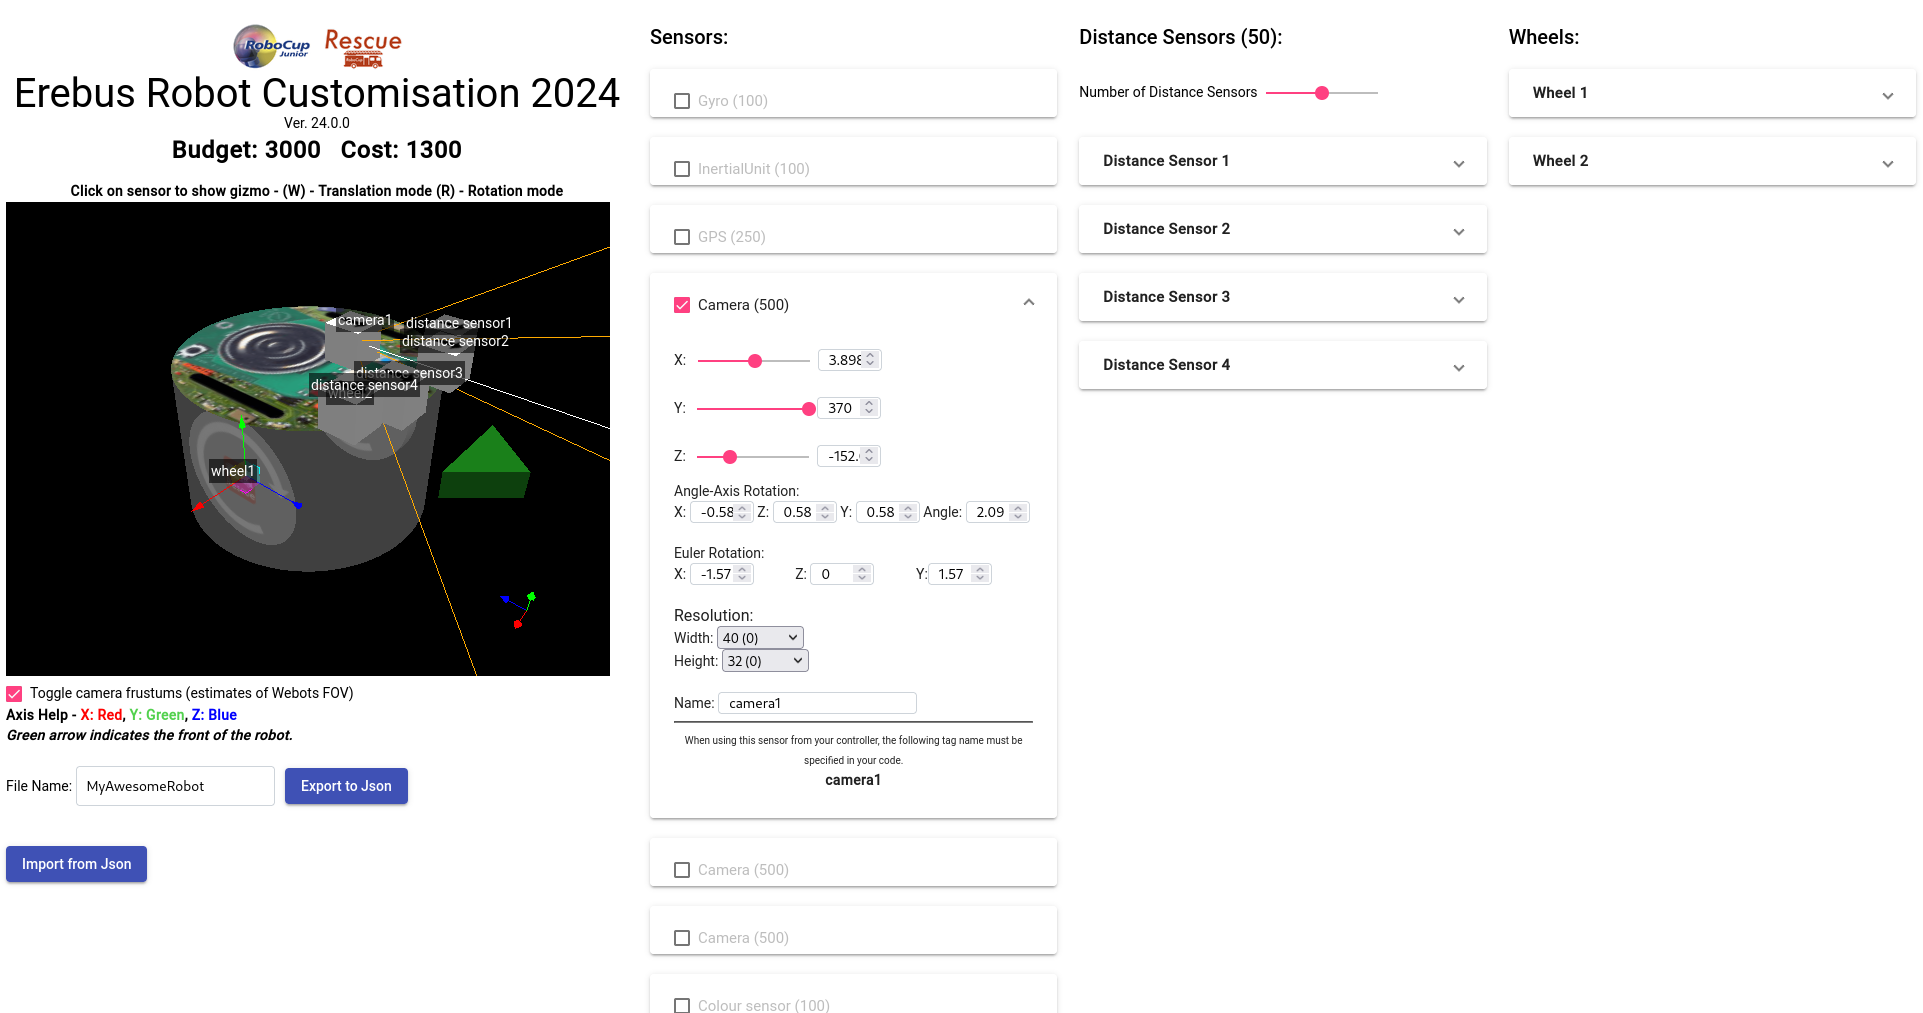
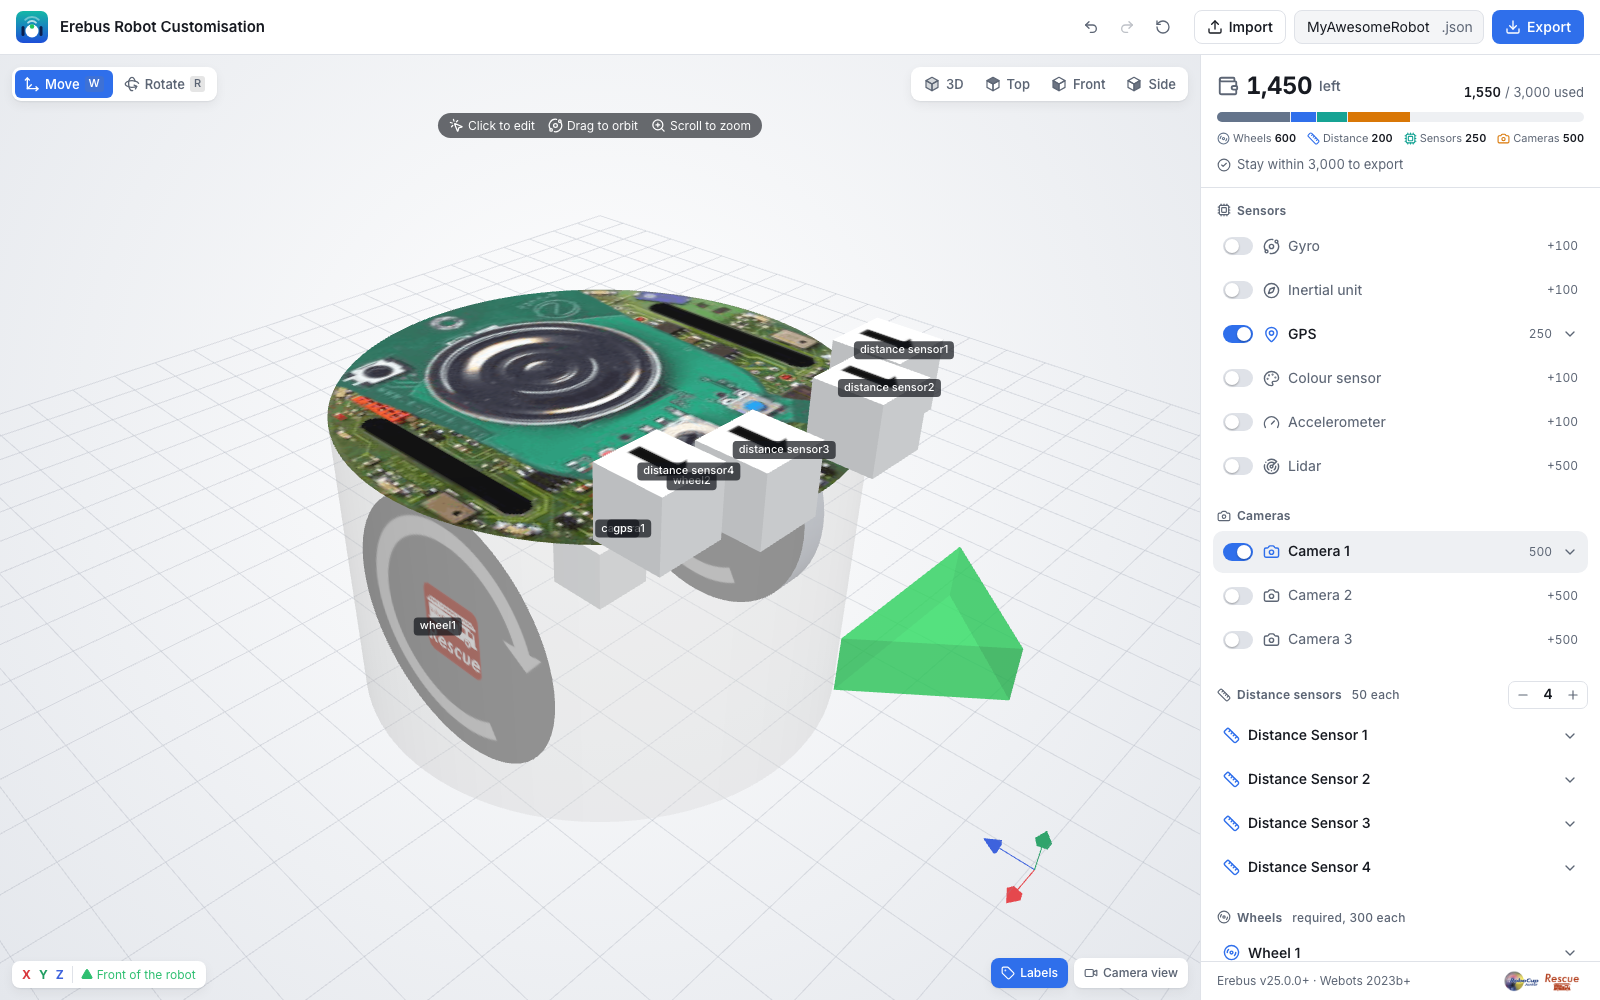
Update the README and screenshot
Describe the features, shortcuts, development commands and file
compatibility, and link to the app.

diff --git a/README.md b/README.md
@@ -1,50 +1,60 @@
-# Robot Customisation
+<p align="center"><img src="public/logo.svg" width="96" alt=""></p>
 
-Robot customiser and generator for RoboCupJunior 2024
+# Erebus Robot Customisation
+
+Robot customiser and generator for RoboCupJunior Rescue Simulation (Erebus).
+Works with Erebus v25.0.0+ and Webots 2023b+.
+
+**Open the app: <https://robot.erebus.rcj.cloud>**
 
 ![Example of app](docs/page.png)
 
 ## Features
 
+- Add sensors and place them in 3D, with the gizmo or with exact values
+- See what is left of the budget, and what a sensor would cost before adding it
+- Point a sensor in a direction with one click
+- Name components for use in your controller
+- Undo and redo, and automatic saving of your work in the browser
+- Import and export robot files, also by dropping a file onto the page
+
 ### Components
 
-All components can be positioned and rotated anywhere around the robot, with differing costs.  
-They can also be given custom names so they can be easily accessed in your code.  
-
-- GPS
-- Gyro
-- Camera (x3)
-  - Each camera can have specific camera resolutions
-- Colour Sensor
-- Accelerometer
-- Lidar Sensor
-- Distance Sensors (up to 8)
+- Gyro, inertial unit, GPS, colour sensor, accelerometer, lidar
+- Cameras (x3), each with its own resolution
+- Distance sensors (up to 8)
 - Wheels (x2) with rotation sensors
 
----
+### Shortcuts
 
-This project was generated with [Angular CLI](https://github.com/angular/angular-cli) version 10.2.0.
+| Key | Action |
+| --- | --- |
+| `W` / `R` | Move / rotate with the gizmo |
+| `Esc` | Close the selected component |
+| `Ctrl/⌘ Z` | Undo |
+| `Ctrl/⌘ Shift Z` | Redo |
 
-## Development server
+## Development
 
-Run `ng serve` for a dev server. Navigate to `http://localhost:4200/`. The app will automatically reload if you change any of the source files.
+Requires Node.js 22.12 or later.
 
-## Code scaffolding
+```sh
+npm install
+npm run dev
+```
 
-Run `ng generate component component-name` to generate a new component. You can also use `ng generate directive|pipe|service|class|guard|interface|enum|module`.
+| Command | Description |
+| --- | --- |
+| `npm run dev` | Start the dev server |
+| `npm run build` | Type-check and build to `dist/robot-customisation` |
+| `npm run preview` | Serve the production build |
+| `npm test` | Run the unit tests |
+| `npm run test:e2e` | Run the browser tests (first run `npx playwright install chromium`) |
 
-## Build
+Built with [Vite](https://vite.dev), [React](https://react.dev), TypeScript and [three.js](https://threejs.org).
 
-Run `ng build` to build the project. The build artifacts will be stored in the `dist/` directory. Use the `--prod` flag for a production build.
+## Robot file format
 
-## Running unit tests
-
-Run `ng test` to execute the unit tests via [Karma](https://karma-runner.github.io).
-
-## Running end-to-end tests
-
-Run `ng e2e` to execute the end-to-end tests via [Protractor](http://www.protractortest.org/).
-
-## Further help
-
-To get more help on the Angular CLI use `ng help` or go check out the [Angular CLI Overview and Command Reference](https://angular.io/cli) page.
+Erebus reads the exported JSON, so the keys and field names in `src/robot` must stay as they are.
+`e2e/fixtures` holds files exported by the previous version of this app, and
+`e2e/compatibility.spec.ts` checks that exports still match them.
